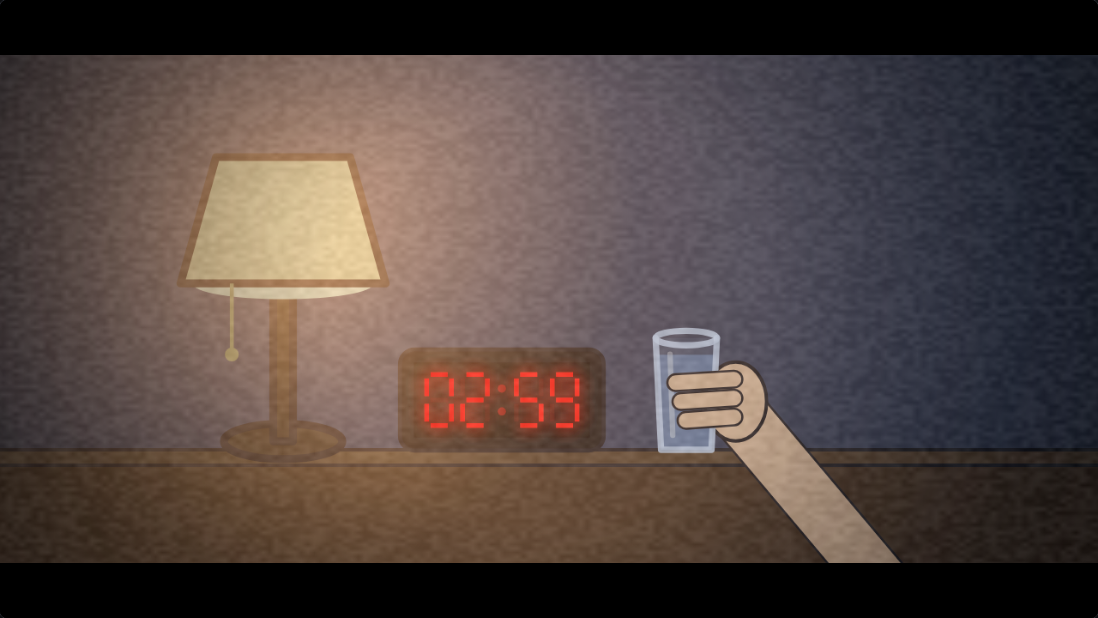
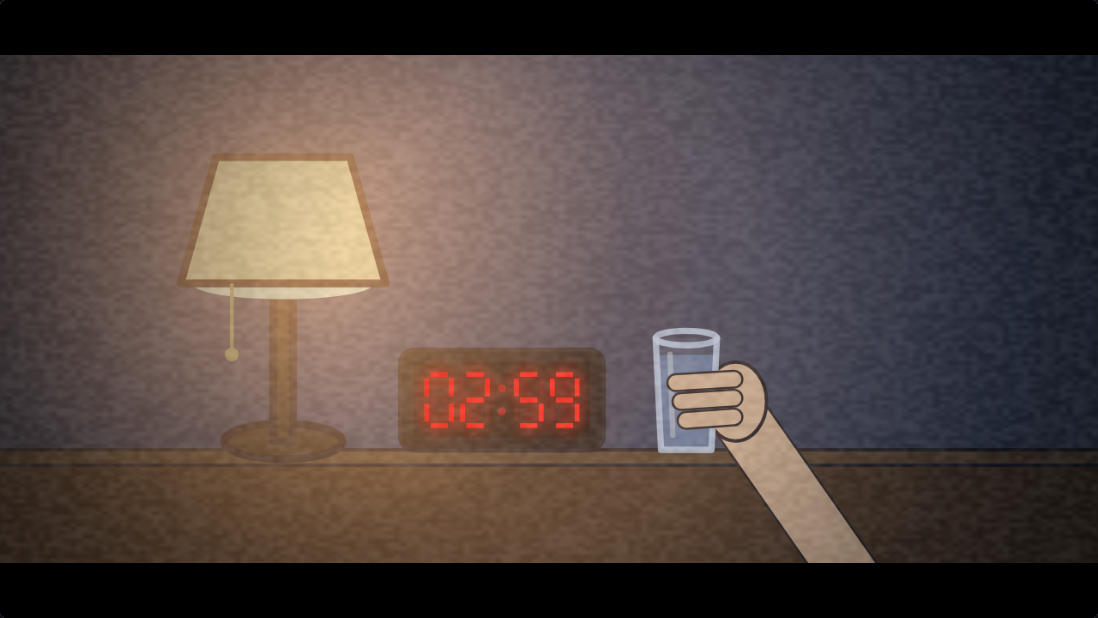
Scene 5: arm stays attached when he lifts the glass
Claude-Session: https://claude.ai/code/session_01CFvWdofgZnvSPniNDB5RYm

Changed region(s): [[0.6812, 0.6764, 0.8361, 0.9223], [0.6503, 0.7071, 0.6812, 0.7686], [0.6812, 0.6456, 0.7122, 0.6764]]

diff --git a/false-awakening-scene5-short.html b/false-awakening-scene5-short.html
@@ -499,9 +499,9 @@ function standClose(D,dir){
   alarmClock(585,466,.95,clockTxt(D),clockOn(D),D);
   let hand,lift;
   if(dir>0){hand=ease(clamp((D-7.9)/1.2,0,1));lift=ease(clamp((D-9.6)/1.5,0,1))}
-  else{lift=1-ease(clamp((D-17)/.8,0,1));hand=1-ease(clamp((D-18.1)/.7,0,1))}
-  const gp=[G0[0]-lift*80,G0[1]-lift*600],hp=[gp[0]+44,gp[1]-64],hc=[lerp(1250,hp[0],hand),lerp(H+300,hp[1],hand)];
-  if(hand>0){cap([hc[0]+320,hc[1]+380],hc,64,SK_A);ctx.fillStyle=SK_A;ctx.strokeStyle=INK;ctx.lineWidth=4;ctx.beginPath();ctx.ellipse(hc[0]+8,hc[1],36,46,0,0,7);ctx.fill();ctx.stroke()}
+  else{lift=.55*(1-ease(clamp((D-17)/.8,0,1)));hand=1-ease(clamp((D-18.1)/.7,0,1))}
+  const gp=[G0[0]+lift*600,G0[1]-lift*190-Math.sin(lift*Math.PI)*60],hp=[gp[0]+44,gp[1]-64],hc=[lerp(1250,hp[0],hand),lerp(H+300,hp[1],hand)];
+  if(hand>0){cap([1180+lift*300,H+220],hc,64,SK_A);ctx.fillStyle=SK_A;ctx.strokeStyle=INK;ctx.lineWidth=4;ctx.beginPath();ctx.ellipse(hc[0]+8,hc[1],36,46,0,0,7);ctx.fill();ctx.stroke()}
   glassAt(gp[0],gp[1],2.1,dir>0?.85:.2,0);
   if(hand>0)[-26,-4,18].forEach((dy,i)=>cap([hc[0]+6,hc[1]+dy],[hc[0]-62+i*6,hc[1]+dy+4],17,SK_A));
   ctx.fillStyle='rgba('+NIGHT+','+(.5-.3*L)+')';ctx.fillRect(0,0,W,H);
@@ -620,7 +620,7 @@ function theEnd(D){
   ctx.textBaseline='alphabetic';
 }
 // short (9:16) version: where to centre the vertical slice for each shot
-function shortCx(D){return D<7.5?690:D>=25.5&&D<35?lerp(690,560,sm(32.4,35,D)):(D>=7.5&&D<11.5)||(D>=17&&D<19)?700:W/2}
+function shortCx(D){return D<7.5?690:D>=25.5&&D<35?lerp(690,560,sm(32.4,35,D)):D>=7.5&&D<11.5?lerp(700,900,sm(9.6,10.8,D)):D>=17&&D<19?lerp(900,700,sm(17,17.8,D)):W/2}
 /* ---------- subtitles ---------- */
 const SUBS=[
   [5.2,7.2,'ETHAN','...Okay.',ORANGE],

diff --git a/false-awakening-scene5.html b/false-awakening-scene5.html
@@ -498,9 +498,9 @@ function standClose(D,dir){
   alarmClock(585,466,.95,clockTxt(D),clockOn(D),D);
   let hand,lift;
   if(dir>0){hand=ease(clamp((D-7.9)/1.2,0,1));lift=ease(clamp((D-9.6)/1.5,0,1))}
-  else{lift=1-ease(clamp((D-17)/.8,0,1));hand=1-ease(clamp((D-18.1)/.7,0,1))}
-  const gp=[G0[0]-lift*80,G0[1]-lift*600],hp=[gp[0]+44,gp[1]-64],hc=[lerp(1250,hp[0],hand),lerp(H+300,hp[1],hand)];
-  if(hand>0){cap([hc[0]+320,hc[1]+380],hc,64,SK_A);ctx.fillStyle=SK_A;ctx.strokeStyle=INK;ctx.lineWidth=4;ctx.beginPath();ctx.ellipse(hc[0]+8,hc[1],36,46,0,0,7);ctx.fill();ctx.stroke()}
+  else{lift=.55*(1-ease(clamp((D-17)/.8,0,1)));hand=1-ease(clamp((D-18.1)/.7,0,1))}
+  const gp=[G0[0]+lift*600,G0[1]-lift*190-Math.sin(lift*Math.PI)*60],hp=[gp[0]+44,gp[1]-64],hc=[lerp(1250,hp[0],hand),lerp(H+300,hp[1],hand)];
+  if(hand>0){cap([1180+lift*300,H+220],hc,64,SK_A);ctx.fillStyle=SK_A;ctx.strokeStyle=INK;ctx.lineWidth=4;ctx.beginPath();ctx.ellipse(hc[0]+8,hc[1],36,46,0,0,7);ctx.fill();ctx.stroke()}
   glassAt(gp[0],gp[1],2.1,dir>0?.85:.2,0);
   if(hand>0)[-26,-4,18].forEach((dy,i)=>cap([hc[0]+6,hc[1]+dy],[hc[0]-62+i*6,hc[1]+dy+4],17,SK_A));
   ctx.fillStyle='rgba('+NIGHT+','+(.5-.3*L)+')';ctx.fillRect(0,0,W,H);
@@ -619,7 +619,7 @@ function theEnd(D){
   ctx.textBaseline='alphabetic';
 }
 // short (9:16) version: where to centre the vertical slice for each shot
-function shortCx(D){return D<7.5?690:D>=25.5&&D<35?lerp(690,560,sm(32.4,35,D)):(D>=7.5&&D<11.5)||(D>=17&&D<19)?700:W/2}
+function shortCx(D){return D<7.5?690:D>=25.5&&D<35?lerp(690,560,sm(32.4,35,D)):D>=7.5&&D<11.5?lerp(700,900,sm(9.6,10.8,D)):D>=17&&D<19?lerp(900,700,sm(17,17.8,D)):W/2}
 /* ---------- subtitles ---------- */
 const SUBS=[
   [5.2,7.2,'ETHAN','...Okay.',ORANGE],

diff --git a/HANDOFF.md b/HANDOFF.md
@@ -38,6 +38,7 @@ Ethan dreams about his dead dad. He wakes up and tells his mom, then realises it
 Creator feedback on v1: "he gets up, feels relieved, looks at the time, goes back to sleep again. As he lays down to sleep and the lights are off we see the 2 eyes under the bed."
 v2 beats (50 s, built, screenshots taken, play test and full playthrough passed, same artifact links as v1): 0-7.5 sits on bed edge, lamp on, "...Okay." / 7.5-11.5 takes the glass / 11.5-17 drinks, relieved, "It's over. I'm awake." / 17-19 glass down / 19-22.5 clock 02:59 to 03:00 (calm) / 22.5-25.5 tired relieved face "...3 AM." / 25.5-35 wide: "Back to sleep.", he pulls the lamp off himself, lies down in the dark, closes his eyes, camera drifts to the gap under the bed, two eyes open / 35-40.5 floor-level, eyes under the bed blink (no feet) / 40.5-43 eyes narrow and rush in / 43-50 THE END.
 Removed from v1: power cut and flicker, "...Mom?", the creak, his feet in the under-bed shot.
+v2 fix: in the long version the arm picking up the glass looked like a floating hand (the arm's base rose into view). Now the arm comes from the bottom-right corner, he lifts the glass back toward himself off the right edge, and the short crop pans right to follow it (`standClose`, `shortCx`).
 
 Scene 5 code notes: helpers `lampL(D)` (lamp on from `LAMP_ON=3.75` to `LAMP_OFF=28.1`), `alarmClock` (7-segment digits via `seg7`, stays on all scene), `glassAt` (water stays level when tilted), `lampAt` (pull chain), `armIK`, `sitter` (Ethan sitting on the bed edge facing camera, full body, bare feet), `roomWide` (wide bedroom; `ethan.lying` draws him asleep with his face toward camera on the pillow, `eyes` draws the eyes in the gap under the bed), `faceSit` (chest-up shot), `sleepWide` (lamp off, dissolve to lying at `LIE=29.35`, push in to the gap, eyes open at `EYES=33.8`), `underBed`, `eyesClose`, `glowEyes`, `theEnd`. `FLIP=20.5` is when the clock shows 03:00. Short version picks the crop centre per shot with `shortCx(D)`. The glowing eyes narrow at the end; a crescent grin was dropped because it read like eyebrows. Lying sideways with a rotated face was tried and dropped; he now lies with his face toward the camera. "THE END" uses Dela Gothic One (falls back to Impact).
 
